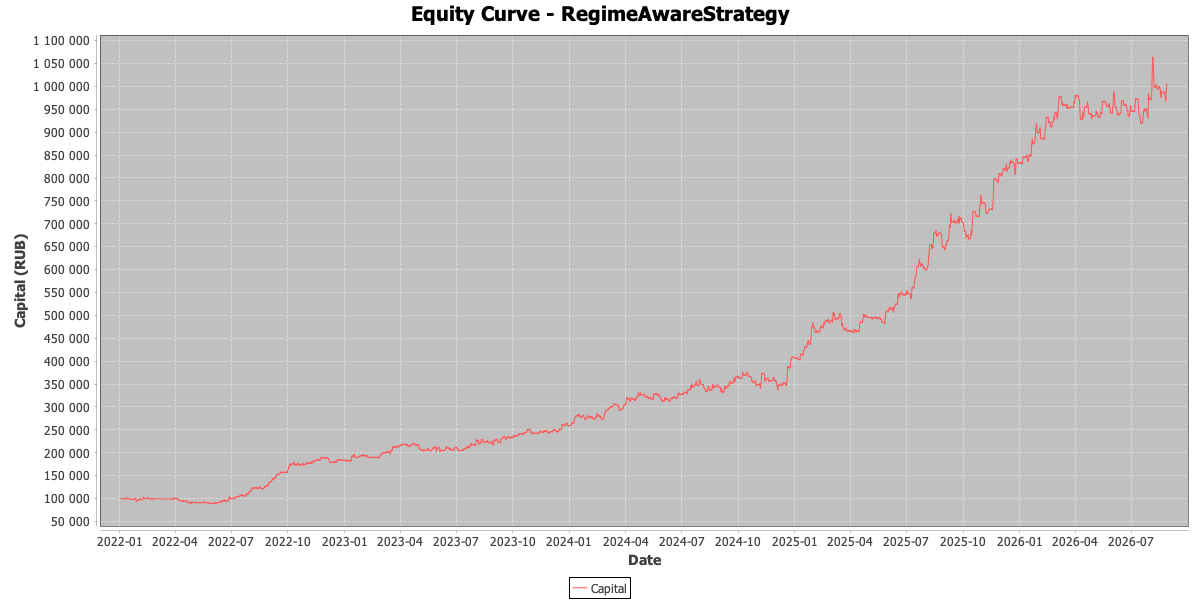
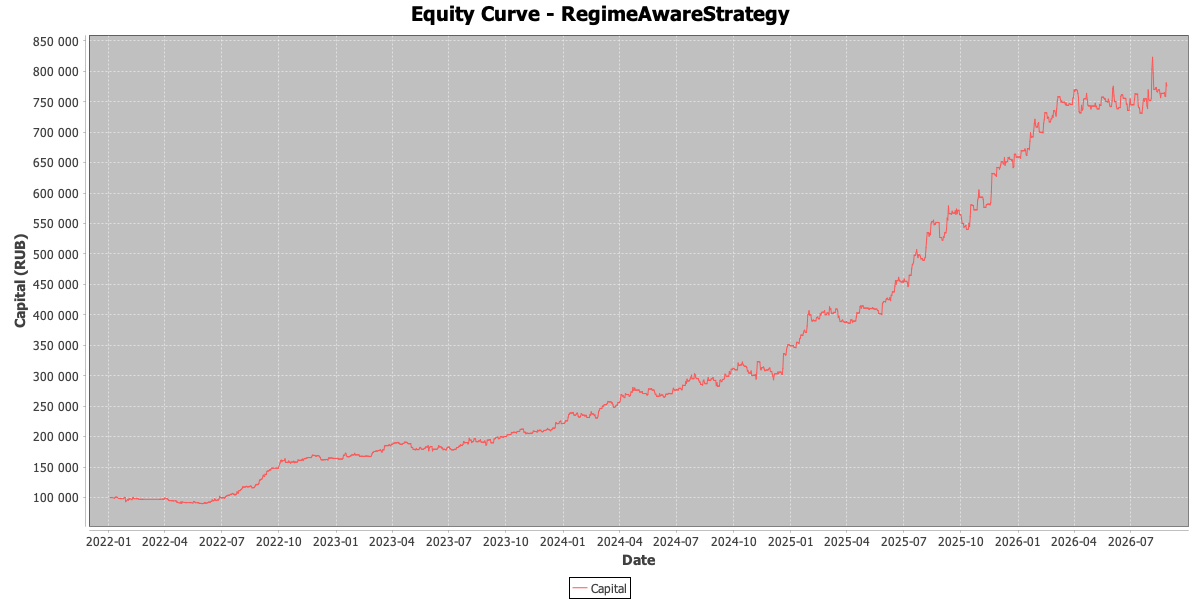
♻ refactor: remove disabled TMON cash parking from backtest

diff --git a/src/main/java/com/github/shk0da/goldendragon/test/BacktestRunner.java b/src/main/java/com/github/shk0da/goldendragon/test/BacktestRunner.java
@@ -216,8 +216,6 @@ import java.util.concurrent.Future;
  */
 public class BacktestRunner {
 
-    private static final String TMON_TICKER = "TMON@";
-
     private static final DateTimeFormatter DATE_FMT = DateTimeFormatter.ofPattern("dd.MM.yyyy");
     private static final DateTimeFormatter DATE_TIME_FMT =
         DateTimeFormatter.ofPattern("dd.MM.yyyy HH:mm:ss");
@@ -1030,11 +1028,6 @@ public class BacktestRunner {
                     List<Candle> hourHistory = marketData.hourCandles.subList(0, state.hourIdx + 1);
                     List<Candle> minHistory = marketData.minuteCandles.subList(0, idx + 1);
 
-                    // TMON@ Cash Parking: sync non-TMON positions into TMON@ strategy
-                    if (TMON_TICKER.equals(ticker) && config.isTmonCashParkingEnabled()) {
-                        syncNonTmonPositionsToStrategy(strategies.get(TMON_TICKER), positionStates);
-                    }
-
                     Map<String, List<Candle>> currentPeerCandles =
                         buildCurrentPeerCandles(
                             ticker,
@@ -1285,26 +1278,7 @@ public class BacktestRunner {
         return new ArrayList<>(timeline);
     }
 
-    /**
-     * Syncs non-TMON positions from portfolio state into the TMON@ strategy's positionStore, so
-     * that TMON@ cash parking logic can see positions held by other tickers.
-     */
-    private void syncNonTmonPositionsToStrategy(
-        BaseStrategy tmonStrategy, Map<String, PortfolioPositionState> positionStates) {
-        for (Map.Entry<String, PortfolioPositionState> entry : positionStates.entrySet()) {
-            String ticker = entry.getKey();
-            if (TMON_TICKER.equals(ticker)) {
-                continue;
-            }
-            PortfolioPositionState state = entry.getValue();
-            tmonStrategy.setPosition(ticker, state.position);
-        }
-    }
-
     private double getEffectiveCommission(String ticker) {
-        if (TMON_TICKER.equals(ticker)) {
-            return 0.0;
-        }
         return commission;
     }
 
@@ -1586,11 +1560,6 @@ public class BacktestRunner {
     private List<String> filterEnabledTickers(List<String> tickers, UnifiedTraderConfig config) {
         List<String> result = new ArrayList<>();
         for (String ticker : tickers) {
-            // TMON@ is always enabled if cash parking is enabled
-            if (TMON_TICKER.equals(ticker) && config.isTmonCashParkingEnabled()) {
-                result.add(ticker);
-                continue;
-            }
             try {
                 UnifiedTraderConfig.TickerParams params = config.getTickerParams(ticker);
                 if (params.enabled) {
@@ -1637,14 +1606,6 @@ public class BacktestRunner {
                     tickers.add(parts[2]);
                 }
             }
-        }
-
-        // Add TMON@ for cash parking if enabled
-        boolean tmonParkingEnabled =
-                Boolean.parseBoolean(
-                        props.getProperty("unifiedTrader.tmonCashParking.enabled", "false"));
-        if (tmonParkingEnabled) {
-            tickers.add(TMON_TICKER);
         }
 
         return new ArrayList<>(tickers);
